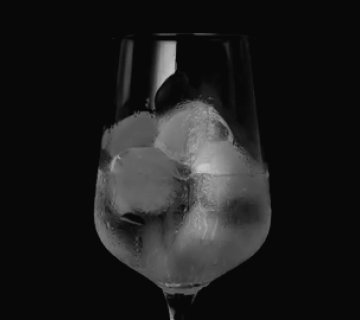
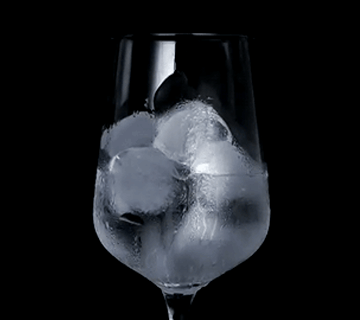
Обрезана гифка Оптимизирован размер гифок

Changed region(s): [[0.2444, 0.125, 0.7639, 1.0], [0.3361, 0.125, 0.3667, 0.3125]]

diff --git a/vite.config.js b/vite.config.js
@@ -17,9 +17,9 @@ export default {
         mkcert(),
         imagemin({
             gifsicle: {
-                optimizationLevel: 1,
+                optimizationLevel: 3,
                 interlaced: true,
-                colors: 'auto'
+                colors: 124
             }
         })
     ],

diff --git a/src/styles/articles.css b/src/styles/articles.css
@@ -16,10 +16,6 @@
     justify-content: space-between;
 }
 
-.articles-block:nth-child(odd) {
-    background-color: #080808;
-}
-
 .articles-title {
     margin: 50px auto 0;
     max-height: 44px;
